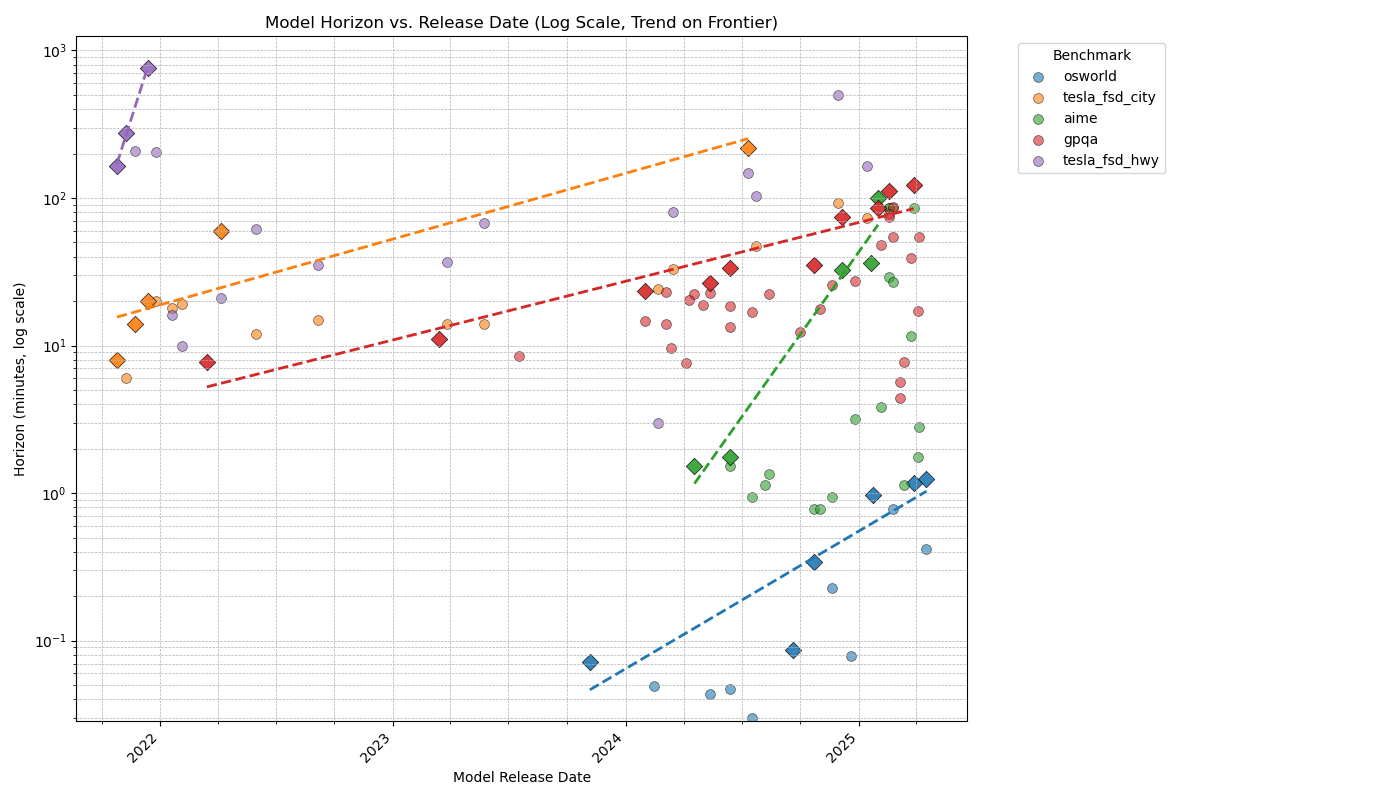
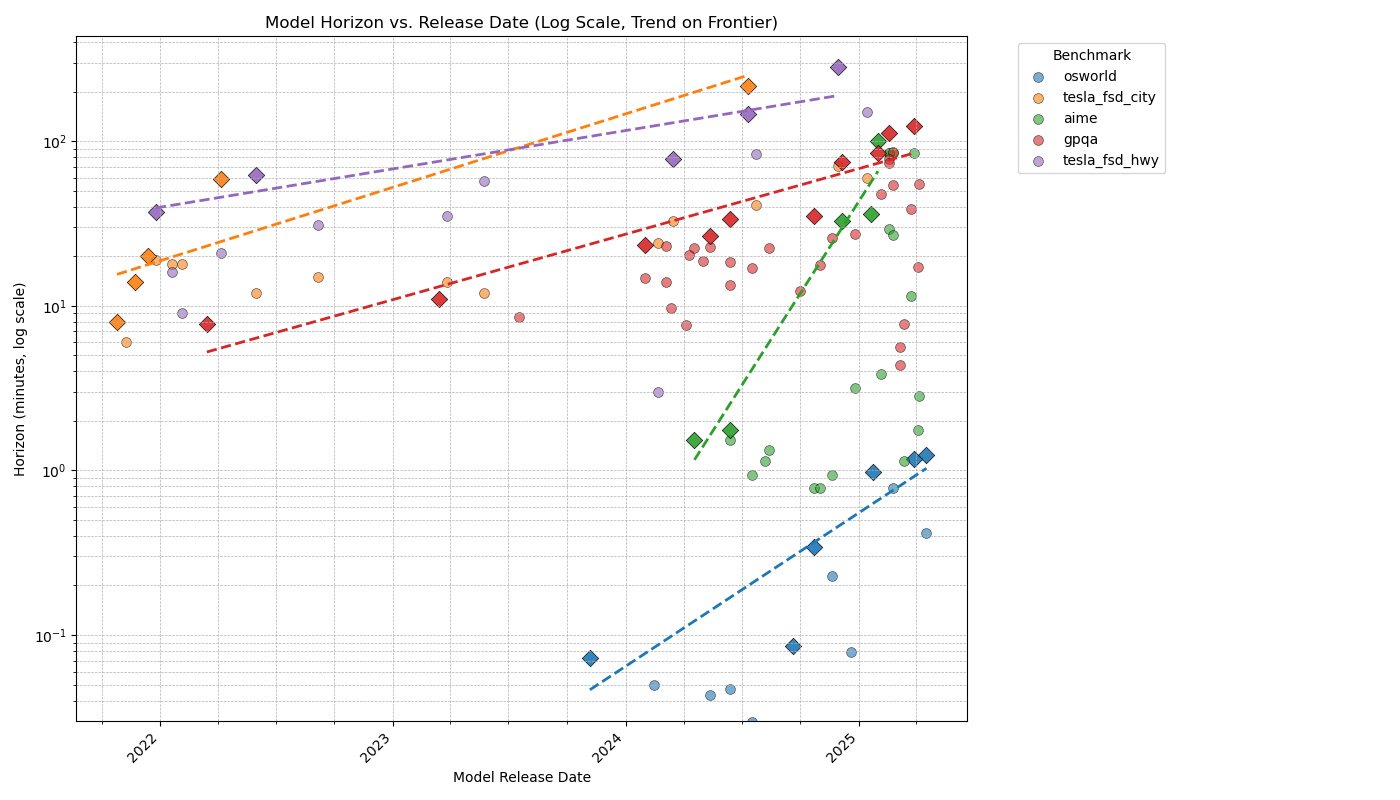
fix averaging

diff --git a/tesla.py b/tesla.py
@@ -1,4 +1,5 @@
 import sys
+import math
 import pathlib
 import csv
 import datetime
@@ -15,10 +16,16 @@ OUTPUT_HWY_FILE = OUTPUT_DIR / "tesla_fsd_hwy.csv"
 CITY_MPH = 30
 HWY_MPH = 60
 
+SEPARATE_PATCH_VERSIONS = [
+    "13.2.8",
+]
+
 def extract_minor_version(version):
     """Extract minor version (e.g., '13.2.x') from full version string."""
     parts = version.split('.')
-    if len(parts) >= 2:
+    if version in SEPARATE_PATCH_VERSIONS:
+        return version
+    elif len(parts) >= 2:
         return f"{parts[0]}.{parts[1]}.x"
     return version
 
@@ -40,8 +47,8 @@ def load_and_process_tesla_data(input_path):
             minor_versions = defaultdict(lambda: {
                 'city_miles': 0,
                 'hwy_miles': 0,
-                'city_miles_to_de': 0,
-                'hwy_miles_to_de': 0,
+                'city_de_count': 0,
+                'hwy_de_count': 0,
                 'earliest_date': None,
                 'versions': []
             })
@@ -73,8 +80,8 @@ def load_and_process_tesla_data(input_path):
                 data['hwy_miles'] += hwy_miles
                 
                 # For miles to DE, we'll use weighted averages later
-                data['city_miles_to_de'] += city_miles_to_de * city_miles
-                data['hwy_miles_to_de'] += hwy_miles_to_de * hwy_miles
+                data['city_de_count'] += 0 if city_miles == 0 else city_miles / city_miles_to_de
+                data['hwy_de_count'] += 0 if hwy_miles == 0 else hwy_miles / hwy_miles_to_de
                 
                 # Track earliest date
                 if data['earliest_date'] is None or date < data['earliest_date']:
@@ -93,8 +100,8 @@ def load_and_process_tesla_data(input_path):
     processed_data = {}
     for minor_version, data in minor_versions.items():
         if data['city_miles'] > 0 and data['hwy_miles'] > 0:
-            city_miles_to_de = data['city_miles_to_de'] / data['city_miles']
-            hwy_miles_to_de = data['hwy_miles_to_de'] / data['hwy_miles']
+            city_miles_to_de = data['city_miles'] / data['city_de_count'] if data['city_de_count'] > 1 else float('nan')
+            hwy_miles_to_de = data['hwy_miles'] / data['hwy_de_count'] if data['hwy_de_count'] > 1 else float('nan')
             
             # Convert miles to minutes based on speed
             city_minutes = city_miles_to_de / CITY_MPH * 60
@@ -106,8 +113,8 @@ def load_and_process_tesla_data(input_path):
                 'hwy_miles': data['hwy_miles'],
                 'city_miles_to_de': city_miles_to_de,
                 'hwy_miles_to_de': hwy_miles_to_de,
-                'city_minutes': int(city_minutes),
-                'hwy_minutes': int(hwy_minutes)
+                'city_minutes': int(city_minutes) if not math.isnan(city_minutes) else None,
+                'hwy_minutes': int(hwy_minutes) if not math.isnan(hwy_minutes) else None
             }
     
     return processed_data
